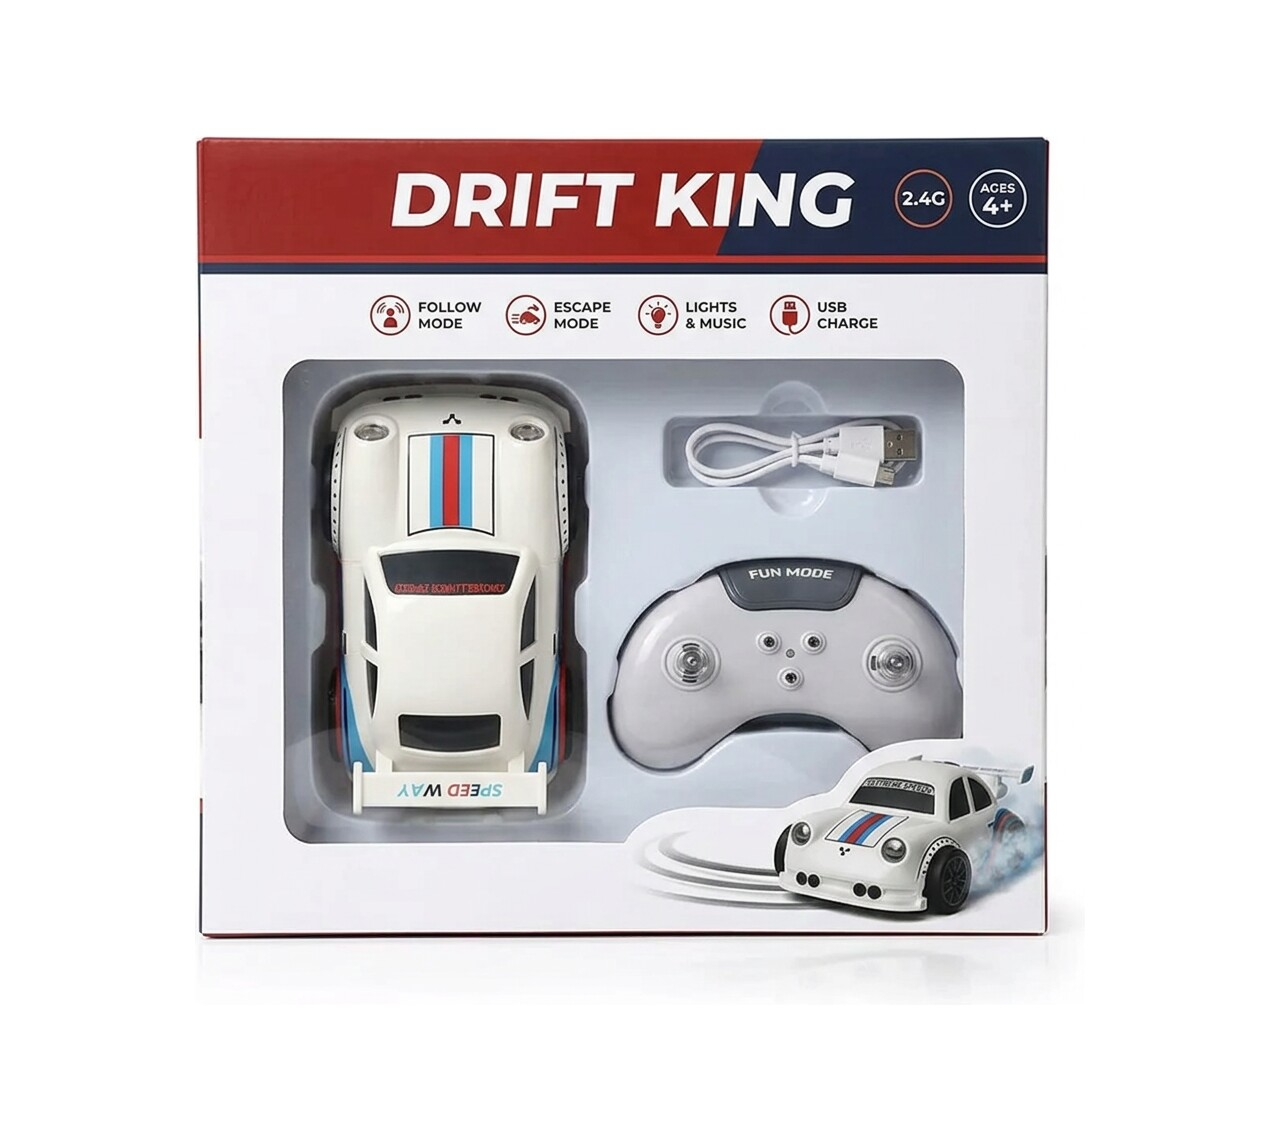
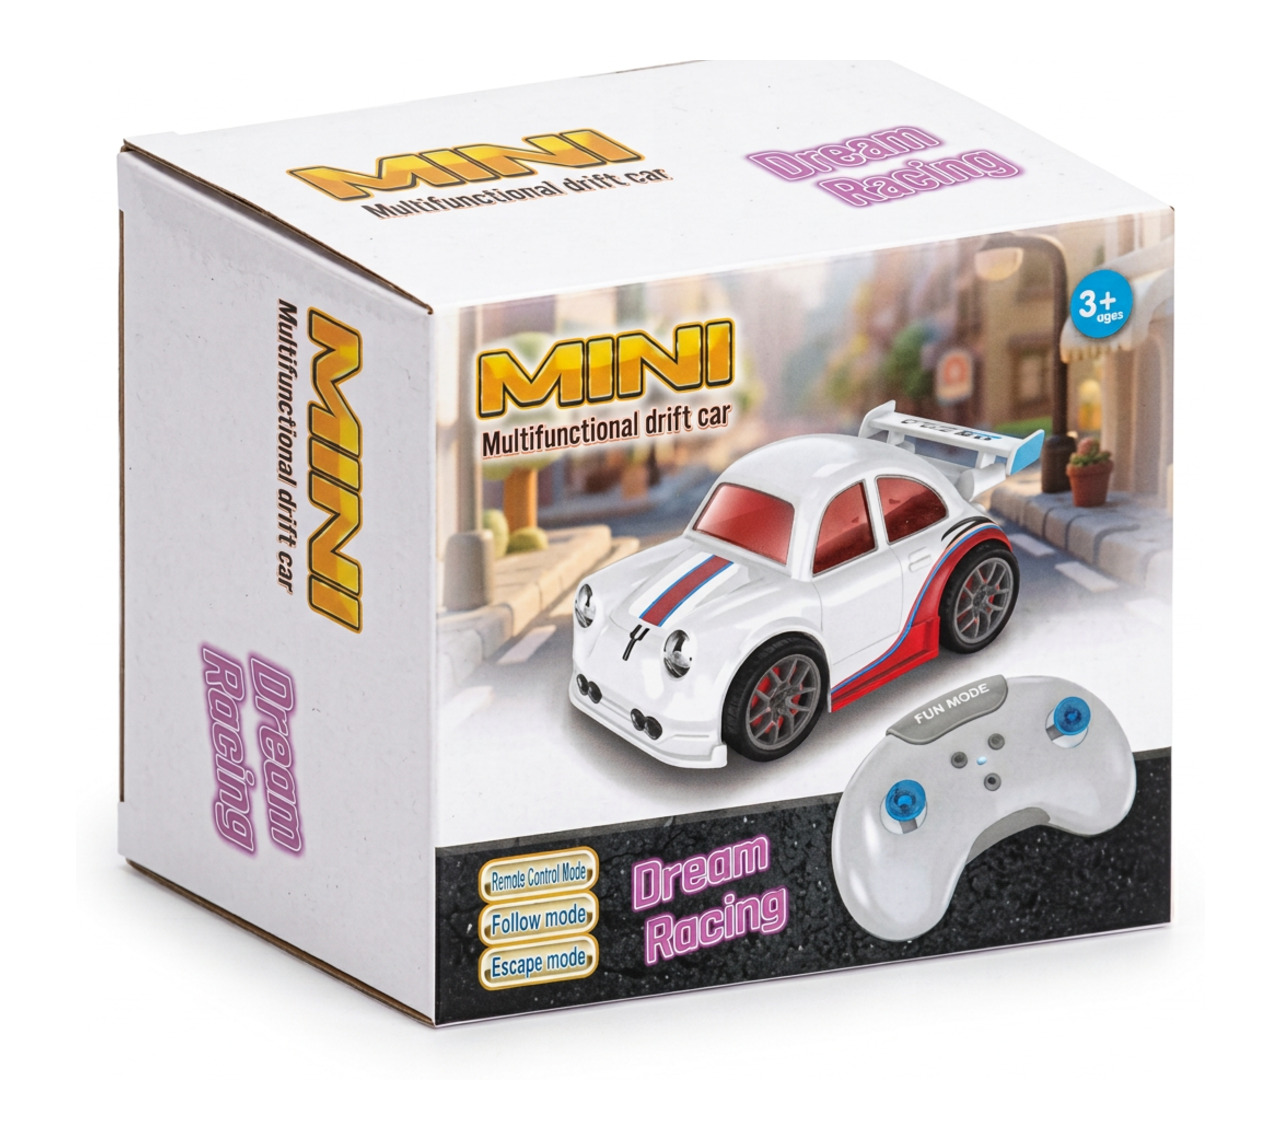
fix(drift-king): regenerate HD retail box photo matching packaging artwork

diff --git a/products/drift-king.html b/products/drift-king.html
@@ -45,7 +45,7 @@
       "https://redpoly.justsimpleapps.online/assets/images/redpoly/products/drift-king.webp?v=dk-20261124",
       "https://redpoly.justsimpleapps.online/assets/images/redpoly/products/drift-king-studio.jpg?v=dk-20261124",
       "https://redpoly.justsimpleapps.online/assets/images/redpoly/products/drift-king-scene.jpg?v=dk-20261124",
-      "https://redpoly.justsimpleapps.online/assets/images/redpoly/products/drift-king-box.jpg?v=dk-20261124"
+      "https://redpoly.justsimpleapps.online/assets/images/redpoly/products/drift-king-box.jpg?v=dk-box-20261124"
     ],
     "color": "Gloss white with crimson red, sky blue and black racing stripes",
     "material": "ABS plastic",
@@ -125,7 +125,7 @@
         <span class="char-spark char-spark--three" aria-hidden="true">&#9733;</span>
         <span class="char-spark char-spark--four" aria-hidden="true">&#10022;</span>
         <span class="char-spark char-spark--five" aria-hidden="true">&#9733;</span>
-        <img class="char-stage__figure" src="/assets/images/redpoly/products/drift-king.webp?v=dk-20261124" alt="Drift King glossy white mini RC coupe with crimson and sky-blue stripes, round glowing headlights, EXTREME SPEED windshield and SPEED WAY rear spoiler." width="1110" height="672" fetchpriority="high" data-label="OUT OF THE BOX" data-alt-label="RETAIL BOX" data-alt-src="/assets/images/redpoly/products/drift-king-box.jpg?v=dk-20261124" data-alt-text="Drift King retail window box packing the white coupe, Fun Mode 2.4G controller and USB charging cable." />
+        <img class="char-stage__figure" src="/assets/images/redpoly/products/drift-king.webp?v=dk-20261124" alt="Drift King glossy white mini RC coupe with crimson and sky-blue stripes, round glowing headlights, EXTREME SPEED windshield and SPEED WAY rear spoiler." width="1110" height="672" fetchpriority="high" data-label="OUT OF THE BOX" data-alt-label="RETAIL BOX" data-alt-src="/assets/images/redpoly/products/drift-king-box.jpg?v=dk-box-20261124" data-alt-text="Drift King MINI Multifunctional Drift Car printed retail box packing the white coupe, Fun Mode 2.4G controller and USB charging cable." />
         <div class="char-media char-media--stage">
           <button class="char-media__card" type="button" data-media-open aria-haspopup="dialog" aria-controls="media-viewer" aria-label="Open the Drift King photo gallery, four studio and box photos">
             <span class="char-media__thumb"><img src="/assets/images/redpoly/products/drift-king-thumb.webp?v=dk-20261124" alt="" width="480" height="291" loading="lazy" /><span class="char-media__play" aria-hidden="true">&#9654;</span></span>
@@ -155,11 +155,11 @@
 
     <section class="char-box" aria-labelledby="char-box-title">
       <div class="char-box__inner">
-        <a class="char-box__photo" href="/assets/images/redpoly/products/drift-king-box.jpg?v=dk-20261124" target="_blank" rel="noopener" aria-label="Open the Drift King retail window box photo at full size"><img src="/assets/images/redpoly/products/drift-king-box.jpg?v=dk-20261124" alt="Drift King printed display window box containing the glossy white coupe, Fun Mode 2.4G remote controller and USB charging cable." width="1280" height="1140" loading="lazy" /></a>
+        <a class="char-box__photo" href="/assets/images/redpoly/products/drift-king-box.jpg?v=dk-box-20261124" target="_blank" rel="noopener" aria-label="Open the Drift King printed retail box photo at full size"><img src="/assets/images/redpoly/products/drift-king-box.jpg?v=dk-box-20261124" alt="Drift King MINI Multifunctional Drift Car Dream Racing printed retail box featuring Follow Mode, Escape Mode, Fun Mode 2.4G controller and white drift coupe." width="1280" height="1140" loading="lazy" /></a>
         <div class="char-box__copy">
           <p class="char-overline">HOW IT ARRIVES</p>
-          <h2 id="char-box-title">RACE READY,<br /><span>WINDOW BOX.</span></h2>
-          <p>Drift King ships inside a neat display window box with the mini coupe, ergonomic Fun Mode gamepad and USB charging cable seated in a molded tray.</p>
+          <h2 id="char-box-title">RACE READY,<br /><span>RETAIL BOX.</span></h2>
+          <p>Drift King ships inside a compact printed retail box featuring the mini coupe, ergonomic Fun Mode gamepad and USB charging cable tucked inside.</p>
           <ul>
             <li>1 Drift King multi-mode RC drift car (12.0 × 7.5 cm)</li>
             <li>1 × 2.4G Fun Mode dual-stick remote controller (12.0 × 7.5 cm)</li>
@@ -221,7 +221,7 @@
     <section class="accessory-policy-panel accessory-policy-panel--product" aria-label="Shipping and returns information">
       <div class="wrap"><header><p>THE IMPORTANT BITS</p><h2>DELIVERY + RETURNS</h2></header>
         <details><summary>How do Follow Mode and Escape Mode work?</summary><p>Drift King includes built-in front motion and obstacle sensors alongside its 2.4G Fun Mode remote. In Follow Mode the car tracks movement to follow your child smoothly; in Escape Mode it senses hands or objects in front and dashes away for energetic chase games.</p></details>
-        <details><summary>What comes inside the Drift King box?</summary><p>You get the 12 cm Drift King white racing coupe, the 12 cm 2.4G Fun Mode handheld remote controller, and a USB charging cable inside a window display box.</p></details>
+        <details><summary>What comes inside the Drift King box?</summary><p>You get the 12 cm Drift King white racing coupe, the 12 cm 2.4G Fun Mode handheld remote controller, and a USB charging cable inside a compact printed retail box.</p></details>
         <details><summary>How are shipping and returns handled?</summary><p>Standard delivery takes 4 days (₹30, free from ₹2,000) and Express takes 2 days (₹120, free from ₹5,000). Orders of ₹3,500 or more include a free gift. Returns are accepted within 7 days if unused and in the original box.</p></details>
       </div>
     </section>
@@ -248,7 +248,7 @@
       <ul id="media-viewer-slides" hidden>
         <li data-type="image" data-src="/assets/images/redpoly/products/drift-king-studio.jpg?v=dk-20261124" data-alt="Drift King car shown beside its white 2.4G Fun Mode gamepad controller and coiled USB charging cable on a studio sweep" data-caption="FULL SET &middot; CAR + FUN MODE CONTROLLER + USB CABLE"></li>
         <li data-type="image" data-src="/assets/images/redpoly/products/drift-king-scene.jpg?v=dk-20261124" data-alt="Drift King white coupe drifting across dark slate floor tiles with bright round LED headlights and red-blue underglow" data-caption="IN ACTION &middot; DRIFT + LED LIGHTS"></li>
-        <li data-type="image" data-src="/assets/images/redpoly/products/drift-king-box.jpg?v=dk-20261124" data-alt="Drift King printed clear-window retail display box containing the white drift coupe, Fun Mode controller and USB cable" data-caption="HOW IT ARRIVES &middot; WINDOW BOX"></li>
+        <li data-type="image" data-src="/assets/images/redpoly/products/drift-king-box.jpg?v=dk-box-20261124" data-alt="Drift King MINI Multifunctional Drift Car printed retail box showing the white drift coupe, Fun Mode 2.4G controller and play mode badges" data-caption="HOW IT ARRIVES &middot; RETAIL BOX"></li>
         <li data-type="image" data-src="/assets/images/redpoly/products/drift-king.webp?v=dk-20261124" data-alt="Drift King white mini drift coupe cutout" data-caption="OUT OF THE BOX &middot; &#8377;799 (&#8377;859 ON AMAZON)"></li>
       </ul>
     </div>
